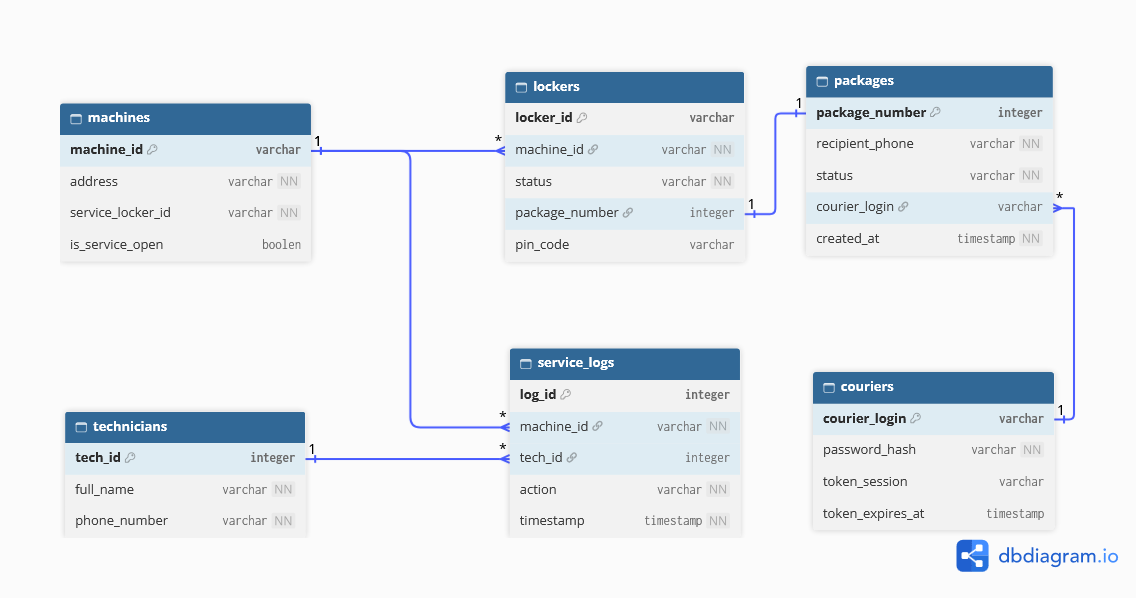
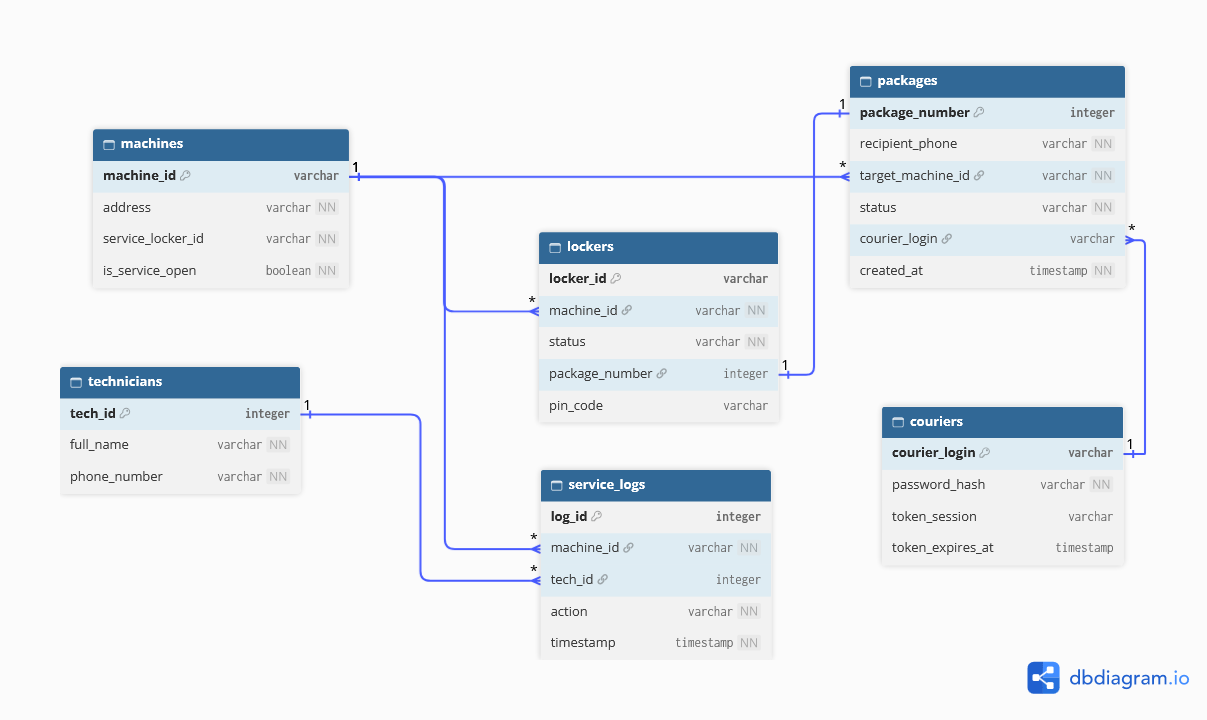
Walidacja maszyny docelowej, ukrycie hasla w CLI

diff --git a/app/database_model.py b/app/database_model.py
@@ -9,11 +9,12 @@ class Machine(Base):
     machine_id = Column(String, primary_key=True, index=True)
     address = Column(String, nullable=False)
     service_locker_id = Column(String, nullable=False)
-    is_service_open = Column(Boolean, default=False)
+    is_service_open = Column(Boolean, default=False, nullable=False)
 
     #Relacje
     lockers = relationship("Locker", back_populates="machine")
     service_logs = relationship("ServiceLog", back_populates="machine")
+    packages = relationship("Package", back_populates="target_machine")
 
 class Locker(Base):
     __tablename__= "lockers"
@@ -32,6 +33,7 @@ class Package(Base):
     __tablename__= "packages"
     package_number = Column(Integer, primary_key=True, index=True)
     recipient_phone = Column(String, nullable=False)
+    target_machine_id = Column(String, ForeignKey("machines.machine_id"), nullable=False)
     status = Column(String, nullable=False)
     courier_login = Column(String, ForeignKey("couriers.courier_login"), nullable=True)
     created_at = Column(DateTime, default=lambda: datetime.now(timezone.utc), nullable=False)
@@ -39,6 +41,7 @@ class Package(Base):
     #Relacje
     courier = relationship("Courier", back_populates="packages")
     locker = relationship("Locker", back_populates="package", uselist=False)
+    target_machine = relationship("Machine", back_populates="packages")
 
 class Courier(Base):
     __tablename__= "couriers"

diff --git a/app/routers/clients.py b/app/routers/clients.py
@@ -80,11 +80,21 @@ def recipient_pickup(
     }
             
 @router.post("/api/machines/{machine_id}/sender/create-package", tags=["Klienci"], response_model=ClientSenderResponse)
-def seander_create_package(
+def sender_create_package(
     machine_id: str, 
     payload: SenderCreateRequest,
     api_key: str = Depends(verify_rasp_api_key),
     db: Session = Depends(get_db)):
+
+    target_machine = db.query(Machine).filter(
+        Machine.machine_id == payload.target_machine_id
+    ).first()
+
+    if not target_machine:
+        raise HTTPException(
+            status_code=status.HTTP_404_NOT_FOUND,
+            detail=f"Maszyna docelowa {payload.target_machine_id} nie istnieje"
+        )
     
     print(f"Nadanie paczki na maszynie {machine_id} do odbiorcy: {payload.recipient_phone}")
 
@@ -116,6 +126,7 @@ def seander_create_package(
         new_package = Package(
             package_number = package_number,
             recipient_phone = payload.recipient_phone,
+            target_machine_id = payload.target_machine_id,
             status = "AWAITING_COURIER"
         )
         db.add(new_package)

diff --git a/scripts/cli_couriers.py b/scripts/cli_couriers.py
@@ -1,4 +1,4 @@
-import sys, os
+import sys, os, getpass
 from sqlalchemy.orm import Session
 
 sys.path.append(os.path.dirname(os.path.dirname(os.path.abspath(__file__))))
@@ -28,9 +28,14 @@ def add_courier(db: Session):
         print("Blad: Kurier o takim loginie juz istnieje!")
         return
 
-    password = input("Podaj haslo dla kuriera: ").strip()
+    password = getpass.getpass("Podaj haslo dla kuriera: ")
     if len(password) < 12:
         print("Blad: Haslo musi miec co najmniej 12 znakow!")
+        return
+    
+    password_confirm = getpass.getpass("Powtorz haslo dla kuriera: ")
+    if password != password_confirm:
+        print("Blad: Podane hasla sa rozne. Przerywam operacje")
         return
 
     password_hash = hash_password(password)

diff --git a/app/schemas.py b/app/schemas.py
@@ -2,7 +2,7 @@ from pydantic import BaseModel, Field
 
 # Model żądań (REQUEST)
 class TechnicianVerifyRequest(BaseModel):
-    machine_id: str = Field(..., min_length=1, max_length=50)
+    machine_id: str = Field(..., min_length=1, max_length=50, pattern=r"^[A-Z]+[0-9]+$")
     full_name: str = Field(..., min_length=2, max_length=100)
 
 class RecipientPickupRequest(BaseModel):
@@ -11,6 +11,7 @@ class RecipientPickupRequest(BaseModel):
 
 class SenderCreateRequest(BaseModel):
     recipient_phone: str = Field(..., pattern=r"^[1-9]\d{8}$")
+    target_machine_id: str = Field(..., min_length=1, max_length=50, pattern=r"^[A-Z]+[0-9]+$")
 
 class CourierLoginRequest(BaseModel):
     courier_login: str = Field(..., min_length=3, max_length=50)

diff --git a/scripts/seed.py b/scripts/seed.py
@@ -39,6 +39,7 @@ def seed_database():
         pkg1 = Package(
             package_number=111111111,
             recipient_phone="600111222",
+            target_machine_id = "KR001",
             status="AWAITING_RECIPIENT",
             courier_login="test",
             created_at=datetime.now()
@@ -46,6 +47,7 @@ def seed_database():
         pkg2 = Package(
             package_number=222222222,
             recipient_phone="600333444",
+            target_machine_id = "KR001",
             status="AWAITING_COURIER",
             courier_login=None,
             created_at=datetime.now()

diff --git a/app/routers/couriers.py b/app/routers/couriers.py
@@ -233,6 +233,12 @@ def courier_deliver(
             detail="Ta paczka nie ma statusu 'W drodze'. Nie mozna jej dostarczyc"
         )
 
+    if package.target_machine_id != machine_id:
+        raise HTTPException(
+            status_code=status.HTTP_400_BAD_REQUEST,
+            detail="To nie jest docelowa maszyna tej paczki. Nie mozna jej dostarczyc"
+        )
+
     free_locker = db.query(Locker).filter(
         Locker.machine_id == machine_id,
         Locker.status == "AVAILABLE"
